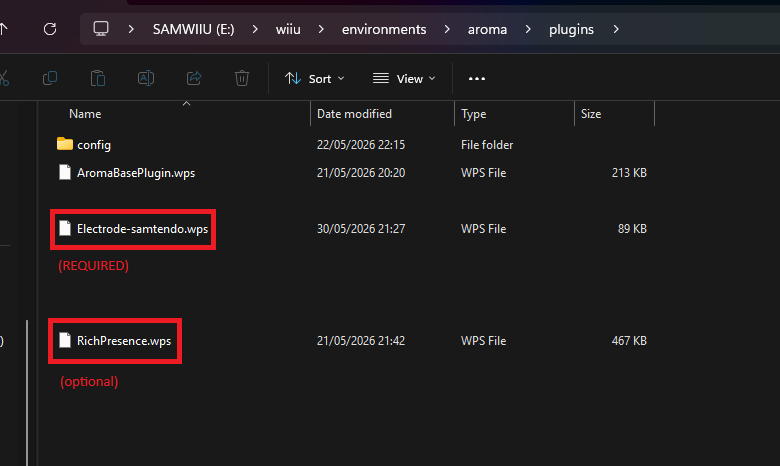
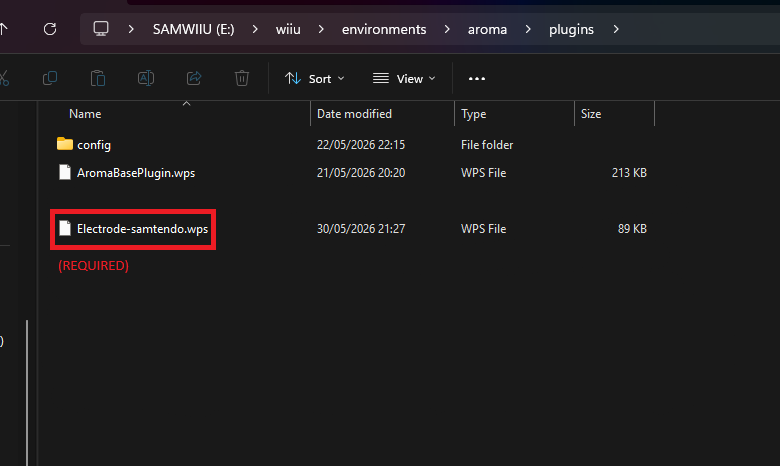
Remove outdated references to broken plugin + update donation list

diff --git a/docs/guide/sd-preparation.md b/docs/guide/sd-preparation.md
@@ -25,7 +25,7 @@ If you see a file named *Inkay-pretendo.wps*, you have Pretendo Network installe
 
 ::: danger
 
-If you see a file named *RichPrescence.wps*, delete it as it may interfere with UDP connections. The Samtendo version is provided in Section II if you'd like to redownload it.
+If you see a file named *RichPrescence.wps*, delete it as it is known to break Samtendo, and the Wii U as a whole.
 
 :::
 
@@ -63,9 +63,6 @@ These files are **required**:
 
 - [Electrode-samtendo.wps](https://github.com/SamtendoNetwork/Electrode/releases/download/v0.0.6/Electrode-samtendo.wps) (Electrode plugin, required to connect to Samtendo Network)
 - [Electrode-samtendo.wms](https://github.com/SamtendoNetwork/Electrode/releases/download/v0.0.6/Electrode-samtendo.wms) (Electrode module, required for the plugin to function)
-
-You may choose to download these files, but they are not required:
-- [RichPresence](https://github.com/sam51210/RichPresenceWUPS/releases/latest) (Place *RichPresence.wps* in **SD:/wiiu/environments/aroma/plugins**. *discord-script.py* should just be ran on your computer in the background.)
 
 Your folders should now look something like this:
 

diff --git a/docs/index.md b/docs/index.md
@@ -51,7 +51,7 @@ This guide will work on all Wii U consoles in all regions on the latest firmware
 You will need the following in order to successfully follow this guide:
 - An SD Card.
 - A device such as a computer to place files onto the SD Card.
-- A Wii U that uses Aroma (and has internet access)
+- A Wii U that uses the latest version of Aroma (and has internet access)
 
 A 32GB SD Card will be enough for most use-cases. A Micro SD Card in an adapter will work fine.
 

diff --git a/docs/donations.md b/docs/donations.md
@@ -11,5 +11,5 @@
 We want to thank all of our donors for their donations:
 
 1. blazer1009 (£15.00)
-1. gugugagagugugagagugugaga (£1.00)
+1. gugugagagugugagagugugaga (£6.00)
 1. ResarfGaming (£0.70)
